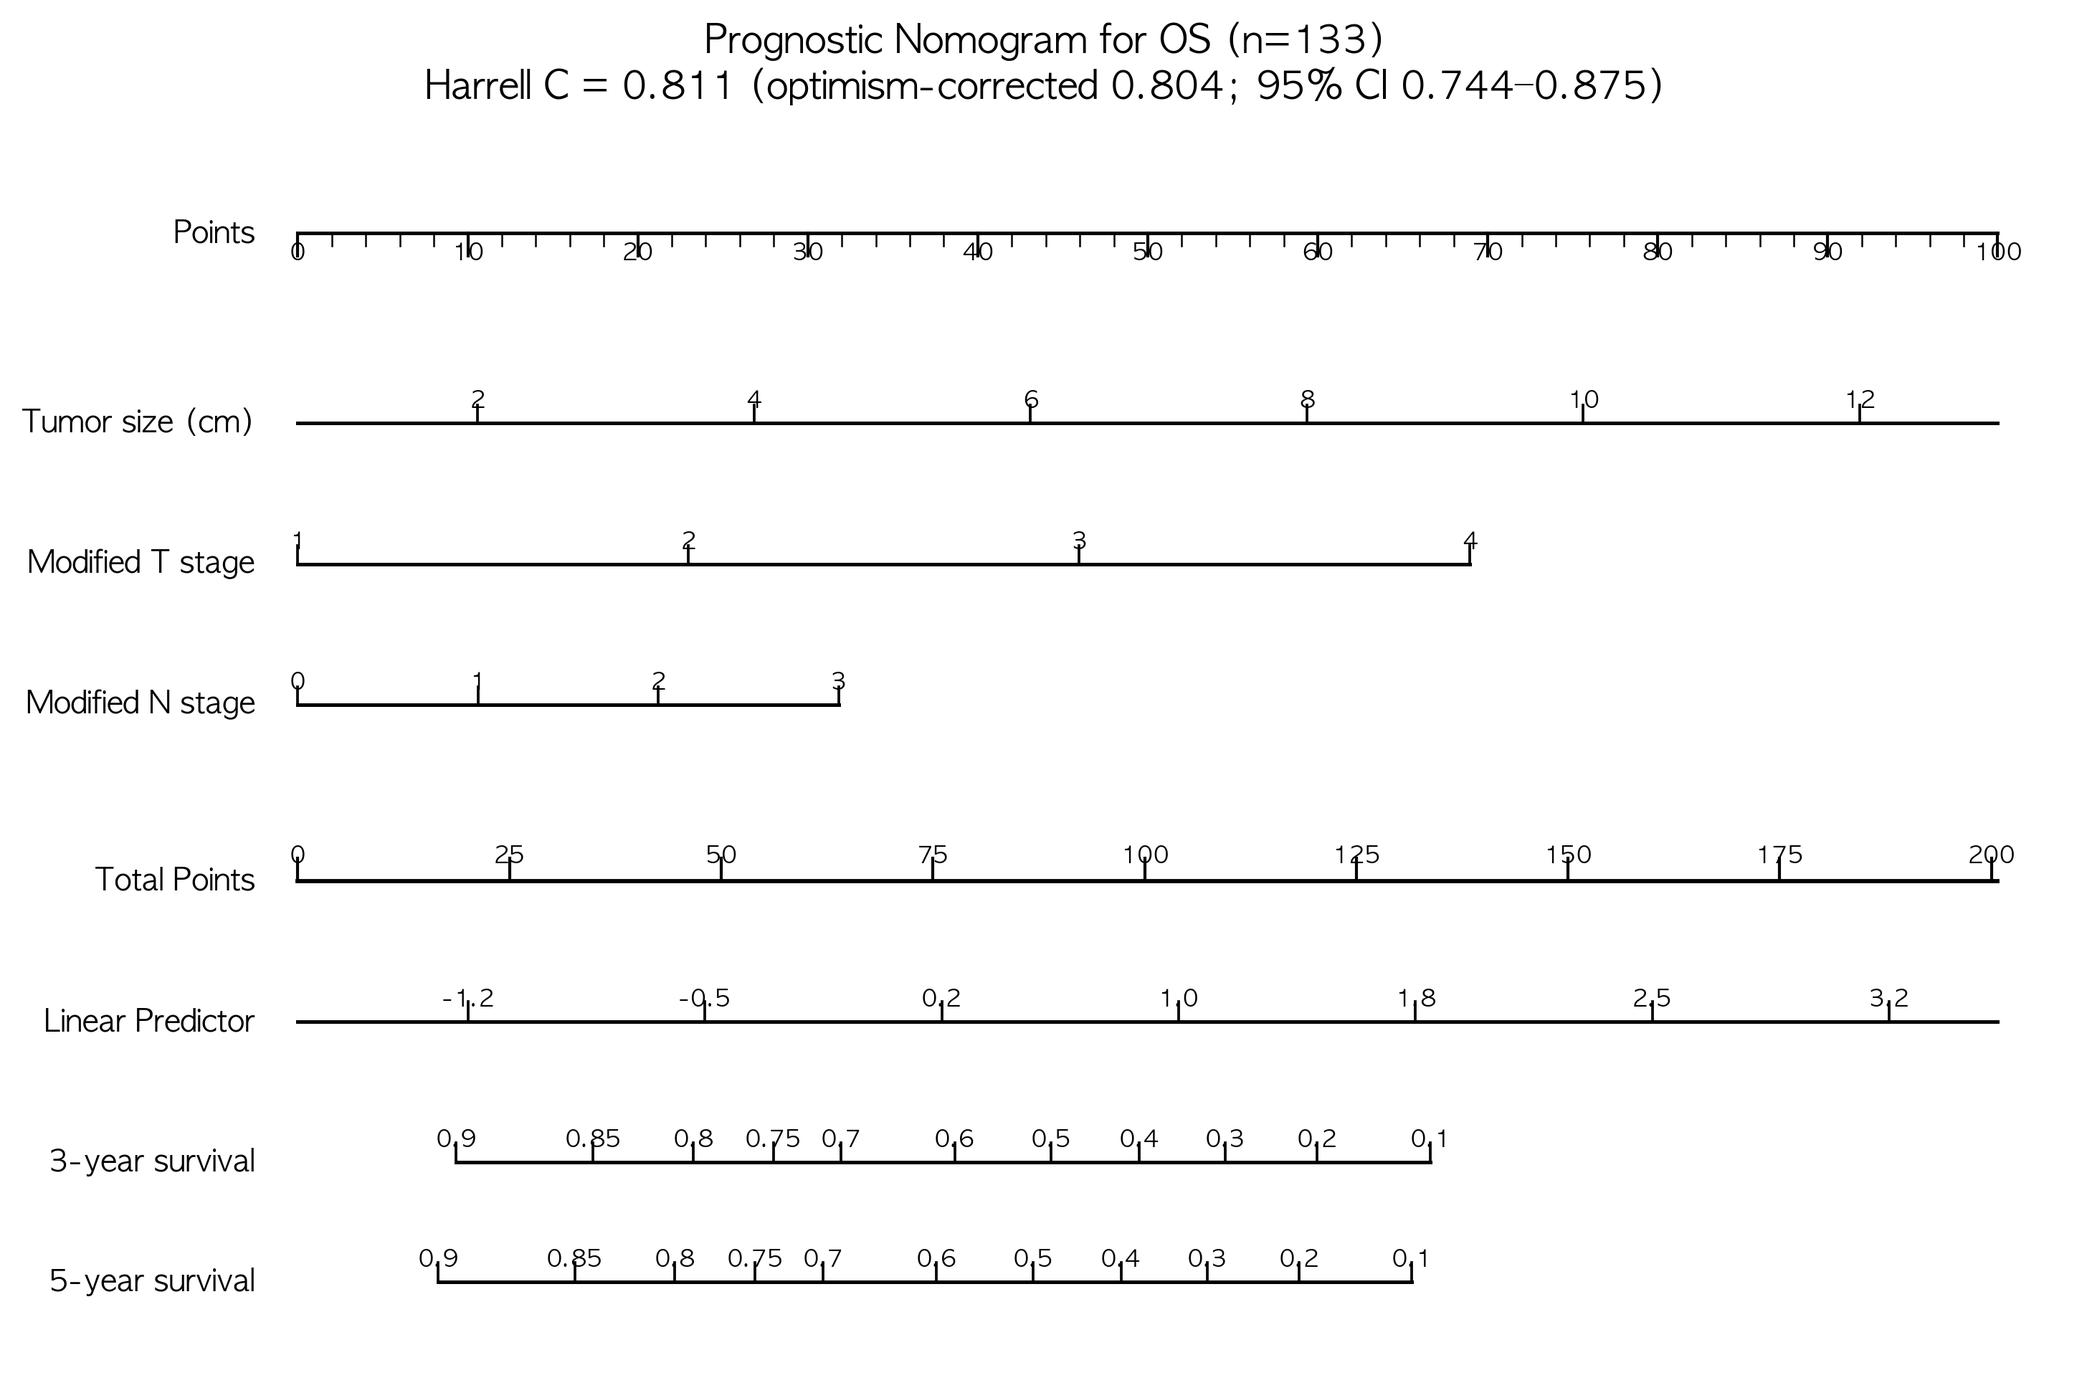
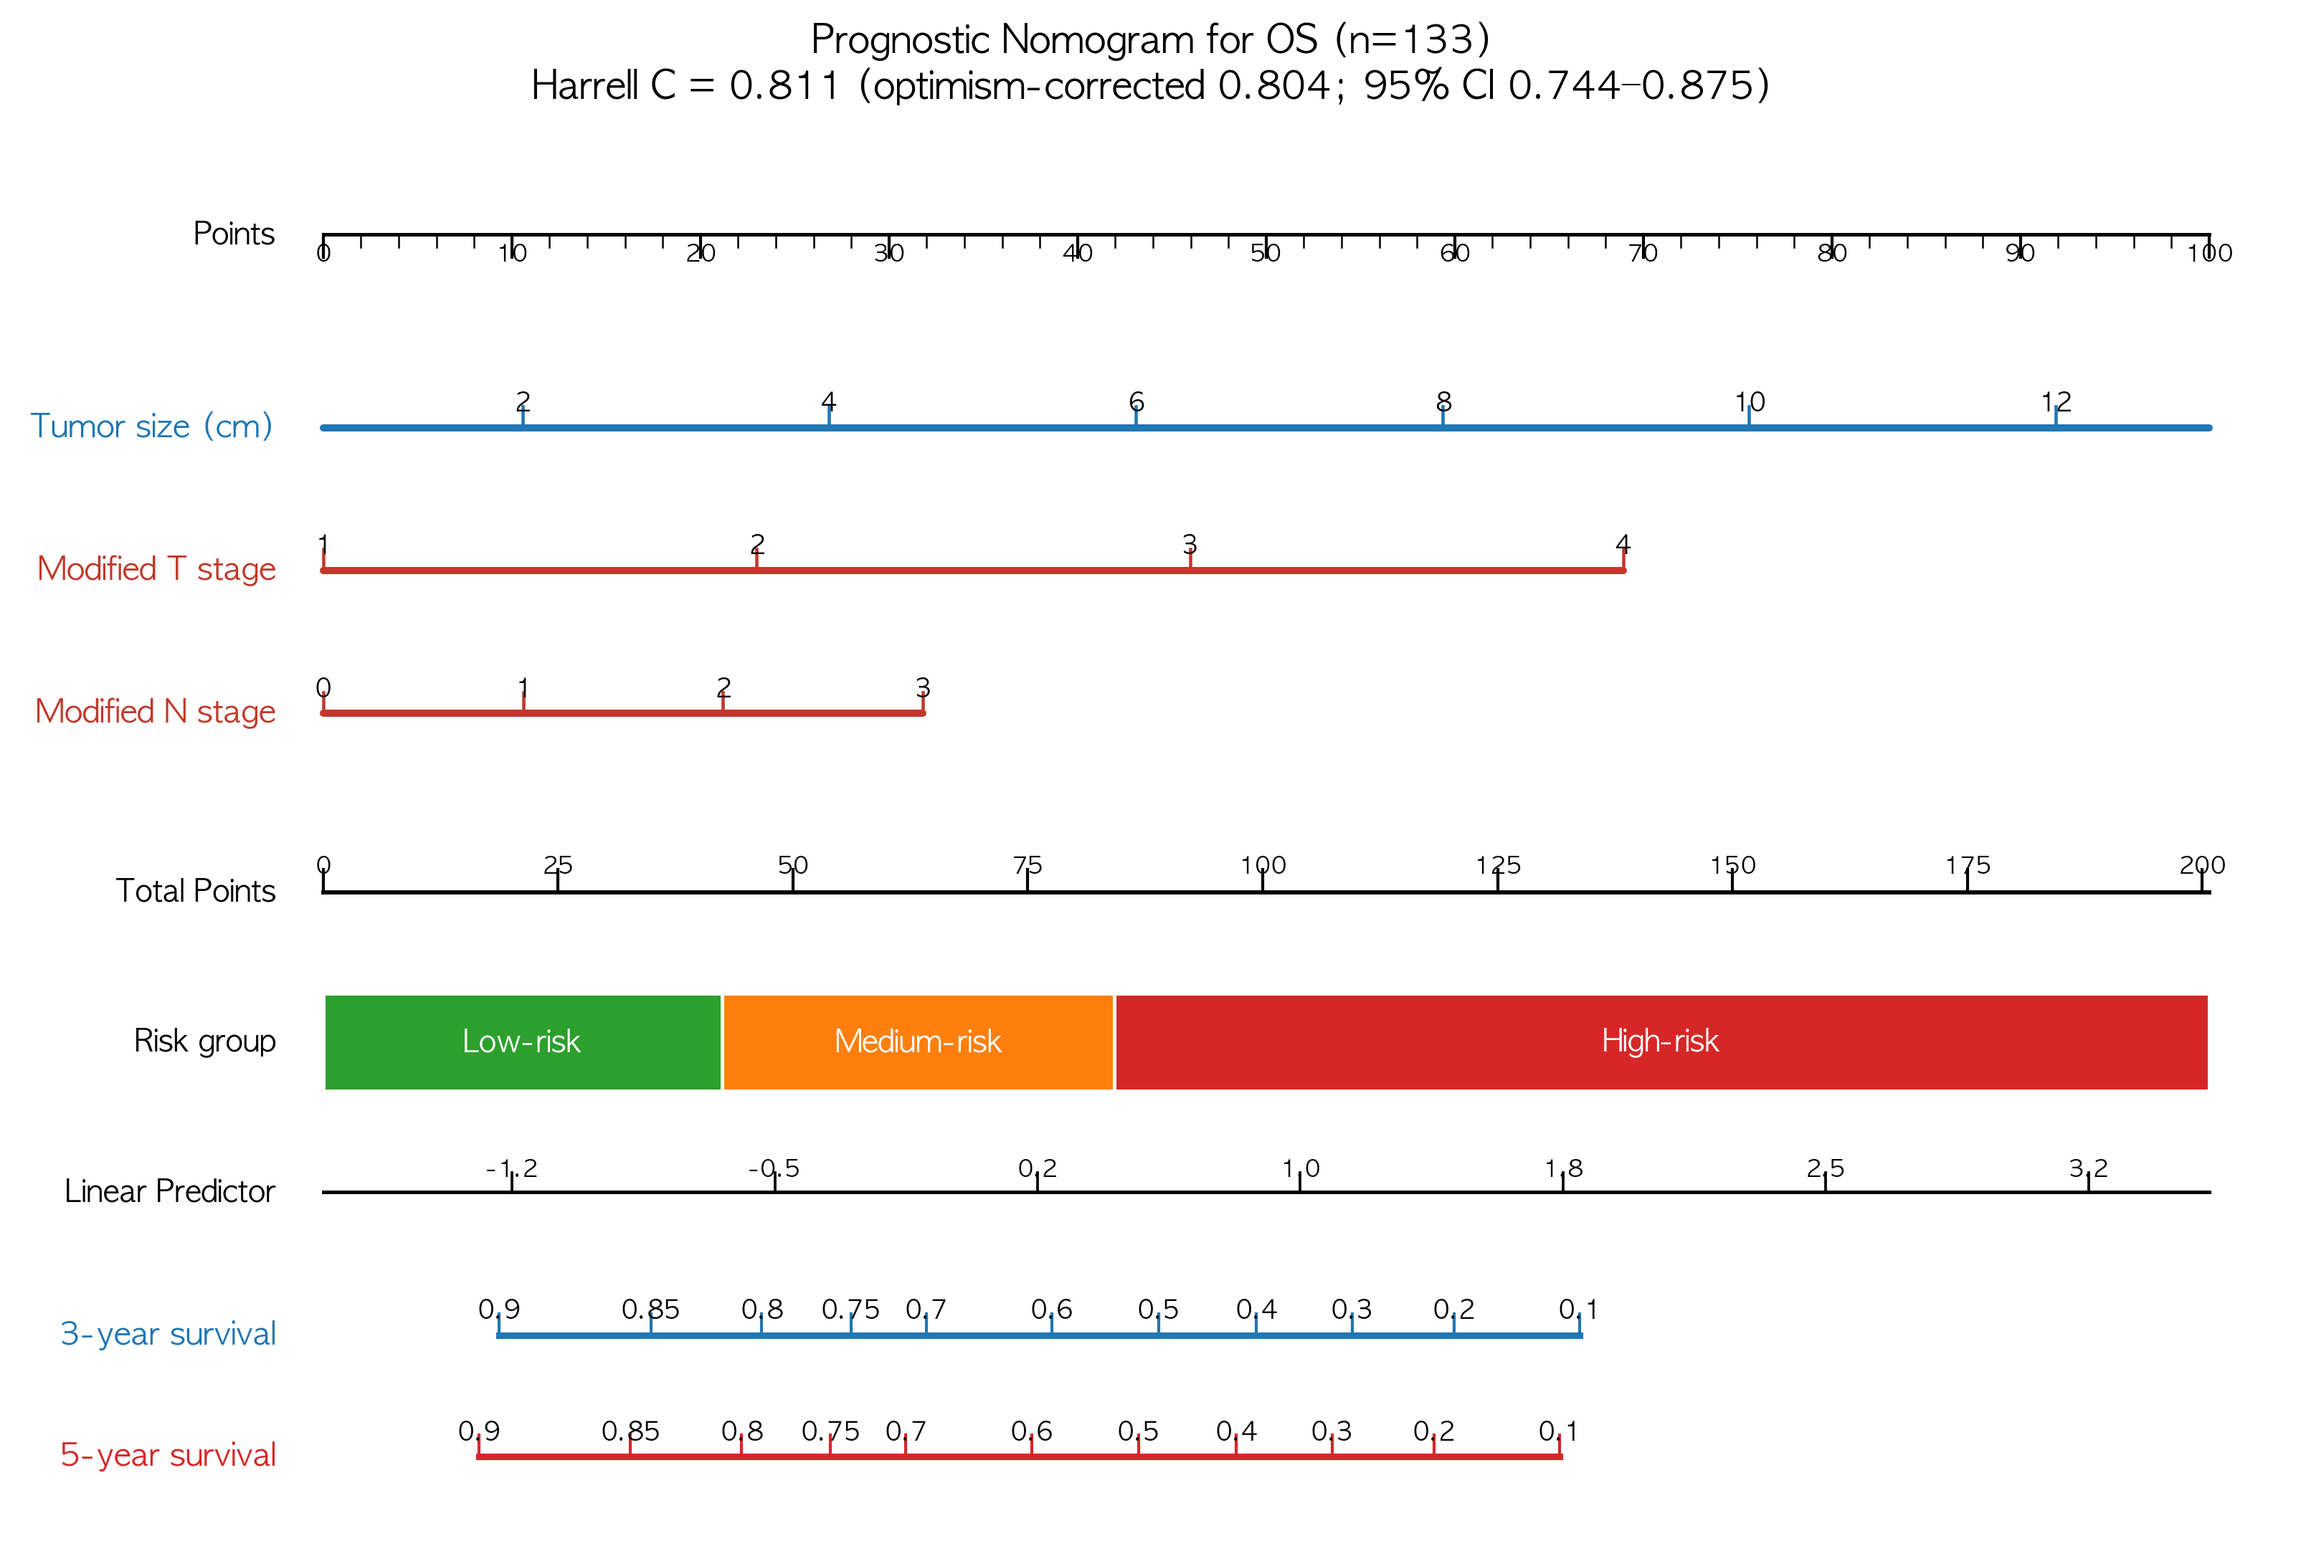
feat: nomogram에 risk-group 컬러 밴드·변수/생존축 컬러 강조 추가
- Total Points 아래 Low/Medium/High-risk 컬러 밴드(3분위) — 참고그림1 스타일
- 변수 축·라벨 컬러링(수정병기 mTstage/mNstage는 빨강 강조), 시점별 컬러 생존축
- nomogram·calibration·dca·roc·risk_km·panels 재생성

diff --git a/seun-두경부암/nomogram_analysis.py b/seun-두경부암/nomogram_analysis.py
@@ -196,8 +196,8 @@ def draw_nomogram(cph, df, feats, times, endpoint, fname, cindex_txt):
         lp = np.log(np.log(s) / np.log(s0t))
         return (lp - intercept) / slope
 
-    nrows = 3 + len(feats) + len(times)
-    fig, ax = plt.subplots(figsize=(10, 0.62 * nrows + 1.6))
+    nrows = 4 + len(feats) + len(times)
+    fig, ax = plt.subplots(figsize=(11, 0.62 * nrows + 1.8))
     ypos = {}
     yy = 0.0
     ypos["Points"] = yy
@@ -206,10 +206,17 @@ def draw_nomogram(cph, df, feats, times, endpoint, fname, cindex_txt):
         ypos[f] = yy
         yy += 1.0
     ypos["Total"] = yy + 0.25
-    ypos["LP"] = ypos["Total"] + 1.0
+    ypos["Risk"] = ypos["Total"] + 1.05
+    ypos["LP"] = ypos["Risk"] + 1.05
     for t in times:
         ypos[f"t{t}"] = ypos["LP"] + 1.0 + 0.85 * times.index(t)
     ymax = max(ypos.values()) + 0.6
+    var_palette = ["#1f77b4", "#ff7f0e", "#2ca02c", "#9467bd", "#8c564b",
+                   "#17becf", "#e377c2", "#7f7f7f", "#bcbd22", "#aec7e8"]
+    var_colors = {f: var_palette[i % len(var_palette)] for i, f in enumerate(feats)}
+    for f in ("mTstage", "mNstage"):
+        if f in var_colors:
+            var_colors[f] = "#c0392b"
 
     XMAX = 100.0  # 물리 좌표 0..100
 
@@ -232,7 +239,8 @@ def draw_nomogram(cph, df, feats, times, endpoint, fname, cindex_txt):
     for f in feats:
         yr = ypos[f]
         mp = nc["max_points"][f]
-        ax.plot([top_x(0), top_x(mp)], [yr] * 2, color="black", lw=1.2)
+        c = var_colors[f]
+        ax.plot([top_x(0), top_x(mp)], [yr] * 2, color=c, lw=2.4, solid_capstyle="round")
         vals = sorted(df[f].dropna().unique())
         if len(vals) > 8:
             ticks = nice_ticks(float(min(vals)), float(max(vals)))
@@ -240,10 +248,11 @@ def draw_nomogram(cph, df, feats, times, endpoint, fname, cindex_txt):
             ticks = vals
         for v in ticks:
             p = nc["points_of"](f, v)
-            ax.plot([top_x(p), top_x(p)], [yr, yr - 0.13], color="black", lw=0.9)
+            ax.plot([top_x(p), top_x(p)], [yr, yr - 0.15], color=c, lw=1.1)
             lab = f"{v:g}" if isinstance(v, (int, float, np.floating)) else str(v)
-            ax.text(top_x(p), yr - 0.24, lab, ha="center", va="top", fontsize=8)
-        ax.text(-2.5, yr, LABELS.get(f, f), ha="right", va="center", fontsize=10, fontweight="bold")
+            ax.text(top_x(p), yr - 0.26, lab, ha="center", va="top", fontsize=8.5)
+        ax.text(-2.5, yr, LABELS.get(f, f), ha="right", va="center",
+                fontsize=10.5, fontweight="bold", color=c)
 
     # Total Points
     yT = ypos["Total"]
@@ -253,6 +262,22 @@ def draw_nomogram(cph, df, feats, times, endpoint, fname, cindex_txt):
         ax.plot([bot_x(tp), bot_x(tp)], [yT, yT - 0.16], color="black", lw=1.0)
         ax.text(bot_x(tp), yT - 0.26, f"{tp:g}", ha="center", va="top", fontsize=8)
     ax.text(-2.5, yT, "Total Points", ha="right", va="center", fontsize=10, fontweight="bold")
+
+    from matplotlib.patches import Rectangle
+    yR = ypos["Risk"]
+    tp33, tp67 = np.percentile(tp_meas, [33.3, 66.7])
+    bands = [(0.0, tp33, "#2ca02c", "Low-risk"),
+             (tp33, tp67, "#ff7f0e", "Medium-risk"),
+             (tp67, total_max, "#d62728", "High-risk")]
+    for x0, x1, col, lab in bands:
+        if x1 <= x0:
+            continue
+        xa, xb = bot_x(x0), bot_x(x1)
+        ax.add_patch(Rectangle((xa, yR - 0.34), xb - xa, 0.68,
+                               facecolor=col, edgecolor="white", lw=1.2, zorder=2))
+        ax.text((xa + xb) / 2, yR, lab, ha="center", va="center",
+                fontsize=10, fontweight="bold", color="white", zorder=3)
+    ax.text(-2.5, yR, "Risk group", ha="right", va="center", fontsize=10, fontweight="bold")
 
     # Linear Predictor
     yL = ypos["LP"]
@@ -266,19 +291,22 @@ def draw_nomogram(cph, df, feats, times, endpoint, fname, cindex_txt):
     ax.text(-2.5, yL, "Linear Predictor", ha="right", va="center", fontsize=10, fontweight="bold")
 
     # Survival scales
-    for t in times:
+    s_colors = ["#1f77b4", "#d62728", "#2ca02c", "#9467bd"]
+    for ti, t in enumerate(times):
         yS = ypos[f"t{t}"]
+        col = s_colors[ti % len(s_colors)]
         label = f"{t}-month survival" if t % 12 else f"{t//12}-year survival"
-        ax.text(-2.5, yS, label, ha="right", va="center", fontsize=10, fontweight="bold")
+        ax.text(-2.5, yS, label, ha="right", va="center", fontsize=10.5,
+                fontweight="bold", color=col)
         s_ticks = [0.9, 0.85, 0.8, 0.75, 0.7, 0.6, 0.5, 0.4, 0.3, 0.2, 0.1]
         tps = [(s, tp_of_surv(t, s)) for s in s_ticks]
         tps = [(s, tp) for s, tp in tps if tp is not None and np.isfinite(tp) and 0 <= tp <= total_max]
         if not tps:
             continue
-        ax.plot([bot_x(tps[0][1]), bot_x(tps[-1][1])], [yS] * 2, color="black", lw=1.2)
+        ax.plot([bot_x(tps[0][1]), bot_x(tps[-1][1])], [yS] * 2, color=col, lw=2.2)
         for s, tp in tps:
-            ax.plot([bot_x(tp), bot_x(tp)], [yS, yS - 0.14], color="black", lw=0.9)
-            ax.text(bot_x(tp), yS - 0.24, f"{s:g}", ha="center", va="top", fontsize=8)
+            ax.plot([bot_x(tp), bot_x(tp)], [yS, yS - 0.15], color=col, lw=1.0)
+            ax.text(bot_x(tp), yS - 0.26, f"{s:g}", ha="center", va="top", fontsize=8.5)
 
     ax.set_xlim(-16, 104)
     ax.set_ylim(ymax, -0.7)
